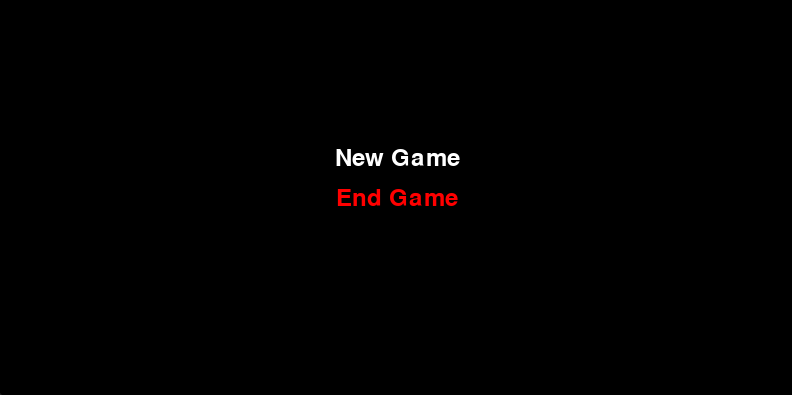
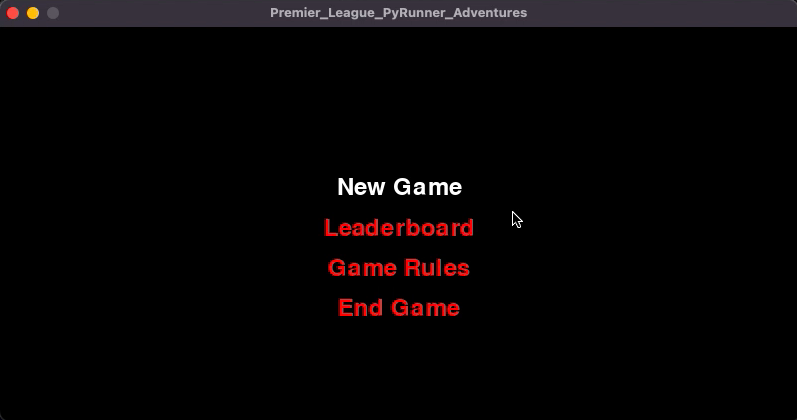
Update 26/01-2024 #7

diff --git a/game.py b/game.py
@@ -20,13 +20,15 @@ RED = (255, 0, 0)
 
 # Create the screen
 screen = pygame.display.set_mode((WIDTH, HEIGHT))
-pygame.display.set_caption("Runner Game")
+pygame.display.set_caption("Premier_League_PyRunner_Adventures")
 
 # Load background, bird, and pipe images
-background_image = pygame.image.load("background.png")
+WHITE = (255, 255, 255)
+background_image = pygame.Surface((WIDTH, HEIGHT))
+background_image.fill(WHITE)
 background_image = pygame.transform.scale(background_image, (WIDTH, HEIGHT))
 
-pipe_image = pygame.image.load("pipe.png")
+pipe_image = pygame.image.load("Obstacles/pipe.png")
 pipe_image = pygame.transform.scale(pipe_image, (50, 50))
 
 # Load font
@@ -35,8 +37,14 @@ font = pygame.font.Font(None, 36)
 # Clock for controlling the frame rate
 clock = pygame.time.Clock()
 
+class JumperImage(pygame.Surface):
+    def __init__(self, surface, name):
+        super().__init__(surface.get_size(), pygame.SRCALPHA)
+        self.blit(surface, (0, 0))
+        self.name = name
+
 class Player(pygame.sprite.Sprite):
-    def __init__(self, bird_image):
+    def __init__(self, bird_image, image_name):
         super().__init__()
         self.image = bird_image
         self.rect = self.image.get_rect()
@@ -44,6 +52,7 @@ class Player(pygame.sprite.Sprite):
         self.velocity = 0
         self.on_ground = True
         self.jumps_remaining = MAX_JUMPS
+        self.image_name = image_name  # Store the image name
 
     def jump(self):
         if self.on_ground or self.jumps_remaining > 0:
@@ -77,32 +86,34 @@ class Obstacle(pygame.sprite.Sprite):
 
 class StartMenu:
     def __init__(self):
-        self.menu_options = ["New Game", "Leaderboard", "End Game"]
+        self.menu_options = ["New Game","Leaderboard", "Game Rules", "End Game"]
         self.selected_option = 0
 
     def run(self):
-        while True:
-            screen.fill(BLACK)
-            self.display_menu()
-            pygame.display.flip()
+            while True:
+                screen.fill(BLACK)
+                self.display_menu()
+                pygame.display.flip()
 
-            for event in pygame.event.get():
-                if event.type == pygame.QUIT:
-                    pygame.quit()
-                    sys.exit()
-                elif event.type == pygame.KEYDOWN:
-                    if event.key == pygame.K_UP:
-                        self.selected_option = (self.selected_option - 1) % len(self.menu_options)
-                    elif event.key == pygame.K_DOWN:
-                        self.selected_option = (self.selected_option + 1) % len(self.menu_options)
-                    elif event.key == pygame.K_RETURN:
-                        if self.selected_option == 0:
-                            return "new_game"
-                        elif self.selected_option == 1:
-                            return "leaderboard"
-                        elif self.selected_option == 2:
-                            pygame.quit()
-                            sys.exit()
+                for event in pygame.event.get():
+                    if event.type == pygame.QUIT:
+                        pygame.quit()
+                        sys.exit()
+                    elif event.type == pygame.KEYDOWN:
+                        if event.key == pygame.K_UP:
+                            self.selected_option = (self.selected_option - 1) % len(self.menu_options)
+                        elif event.key == pygame.K_DOWN:
+                            self.selected_option = (self.selected_option + 1) % len(self.menu_options)
+                        elif event.key == pygame.K_RETURN:
+                            if self.selected_option == 0:
+                                return "new_game"
+                            elif self.selected_option == 1:
+                                return "leaderboard"
+                            elif self.selected_option == 2:
+                                return "rules"
+                            elif self.selected_option == 3:
+                                pygame.quit()
+                                sys.exit()
 
     def display_menu(self):
         for i, option in enumerate(self.menu_options):
@@ -111,12 +122,43 @@ class StartMenu:
             text_rect = text.get_rect(center=(WIDTH // 2, HEIGHT // 2 + (i - 1) * 40))  # Adjust the vertical position
             screen.blit(text, text_rect)
 
+class GameRules:
+    def display_rules(self):
+        rules_text = [
+            "1. Press SPACE to make the player jump.",
+            "2. Avoid colliding with obstacles to survive.",
+            "3. You have three limited number of jumps.",
+            "4. Have fun!",
+            "",
+            "Press ENTER to go back to the main menu."
+        ]
+
+        while True:
+            screen.fill(BLACK)
+            self.draw_rules(rules_text)
+            pygame.display.flip()
+
+            for event in pygame.event.get():
+                if event.type == pygame.QUIT:
+                    pygame.quit()
+                    sys.exit()
+                elif event.type == pygame.KEYDOWN and event.key == pygame.K_RETURN:
+                    return
+
+    def draw_rules(self, rules_text):
+        for i, line in enumerate(rules_text):
+            text = font.render(line, True, WHITE)
+            text_rect = text.get_rect(center=(WIDTH // 2, HEIGHT // 4 + i * 30))
+            screen.blit(text, text_rect)
+
+
+
 class Leaderboard:
     def __init__(self):
         self.scores = []
 
-    def add_score(self, score):
-        self.scores.append(score)
+    def add_score(self, score, image_name):
+        self.scores.append((score, image_name))
         self.scores.sort(reverse=True)  # Sort in descending order
 
     def display(self):
@@ -137,8 +179,8 @@ class Leaderboard:
         leaderboard_rect = leaderboard_text.get_rect(center=(WIDTH // 2, HEIGHT // 4))
         screen.blit(leaderboard_text, leaderboard_rect)
 
-        for i, score in enumerate(self.scores):
-            score_text = font.render(f"{i + 1}. {score} ms", True, WHITE)
+        for i, (score, image_name) in enumerate(self.scores):
+            score_text = font.render(f"{i + 1}. {score} ms - {image_name[:-4]}", True, WHITE)
             score_rect = score_text.get_rect(center=(WIDTH // 2, HEIGHT // 4 + (i + 1) * 40))
             screen.blit(score_text, score_rect)
 
@@ -146,7 +188,7 @@ class GameOver:
     def __init__(self, elapsed_time):
         self.elapsed_time = elapsed_time
 
-    def run(self, leaderboard):
+    def run(self, leaderboard, image_name):
         while True:
             screen.fill(BLACK)
             self.display_game_over()
@@ -158,7 +200,7 @@ class GameOver:
                     sys.exit()
                 elif event.type == pygame.KEYDOWN:
                     if event.key == pygame.K_RETURN:
-                        leaderboard.add_score(self.elapsed_time)
+                        leaderboard.add_score(self.elapsed_time, image_name)
                         leaderboard.display()
                         return
 
@@ -172,10 +214,10 @@ class GameOver:
         screen.blit(time_text, time_rect)
 
 class Game:
-    def __init__(self, default_bird_image):
+    def __init__(self, default_bird_image, image_name):
         self.all_sprites = pygame.sprite.Group()
         self.obstacles = pygame.sprite.Group()
-        self.player = Player(default_bird_image)
+        self.player = Player(default_bird_image, image_name)
         self.all_sprites.add(self.player)
         self.game_over = False  # Flag to track game over condition
         self.start_time = pygame.time.get_ticks()  # Record the start time
@@ -207,7 +249,7 @@ class Game:
 
         # Display the game over screen
         game_over_screen = GameOver(elapsed_time)
-        game_over_screen.run(leaderboard)
+        game_over_screen.run(leaderboard, self.player.image_name)
 
         # Return to the start menu after the game is done
         return self.score
@@ -262,7 +304,8 @@ def display_jumper_options():
     jumper_options = []
     for file_name in os.listdir(jumper_folder):
         if file_name.lower().endswith(".png"):
-            jumper_options.append(pygame.image.load(os.path.join(jumper_folder, file_name)))
+            image = pygame.image.load(os.path.join(jumper_folder, file_name))
+            jumper_options.append(JumperImage(image, file_name))  # Wrap the Surface with our class
     return jumper_options
 
 def display_jumper_selection_screen():
@@ -289,8 +332,8 @@ def display_jumper_selection_screen():
         clock.tick(FPS)
 
 def display_jumper_images(jumper_options, selected_option, scale):
-    for i, image in enumerate(jumper_options):
-        scaled_image = pygame.transform.scale(image, scale)
+    for i, image_obj in enumerate(jumper_options):
+        scaled_image = pygame.transform.scale(image_obj, scale)
         x = (WIDTH // 2 - (len(jumper_options) * (scale[0] + 10)) // 2) + i * (scale[0] + 10)
         y = HEIGHT // 2
         image_rect = scaled_image.get_rect(center=(x, y))
@@ -299,9 +342,11 @@ def display_jumper_images(jumper_options, selected_option, scale):
         if i == selected_option:
             pygame.draw.rect(screen, RED, image_rect, 2)
 
+
 if __name__ == "__main__":
     start_menu = StartMenu()
     leaderboard = Leaderboard()
+    game_rules = GameRules()
 
     while True:
         selected_option = start_menu.run()
@@ -316,9 +361,13 @@ if __name__ == "__main__":
             pygame.display.flip()
             pygame.time.wait(2000)
 
-            game = Game(default_bird_image)
+            game = Game(default_bird_image, selected_jumper.name)
             game.run(leaderboard)
 
         elif selected_option == "leaderboard":
             # Display Leaderboard
             leaderboard.display()
+
+        elif selected_option == "rules":
+            # Display Rules
+            game_rules.display_rules()

diff --git a/README.md b/README.md
@@ -31,5 +31,9 @@ Note: The leaderboard functionality has been removed based on user request, and 
 ![Local Image](Screenshots/1.png)
 ![Local Image](Screenshots/2.png)
 ![Local Image](Screenshots/3.png)
+![Local Image](Screenshots/4.png)
+![Local Image](Screenshots/5.png)
+![Local Image](Screenshots/6.png)
+
 
 
